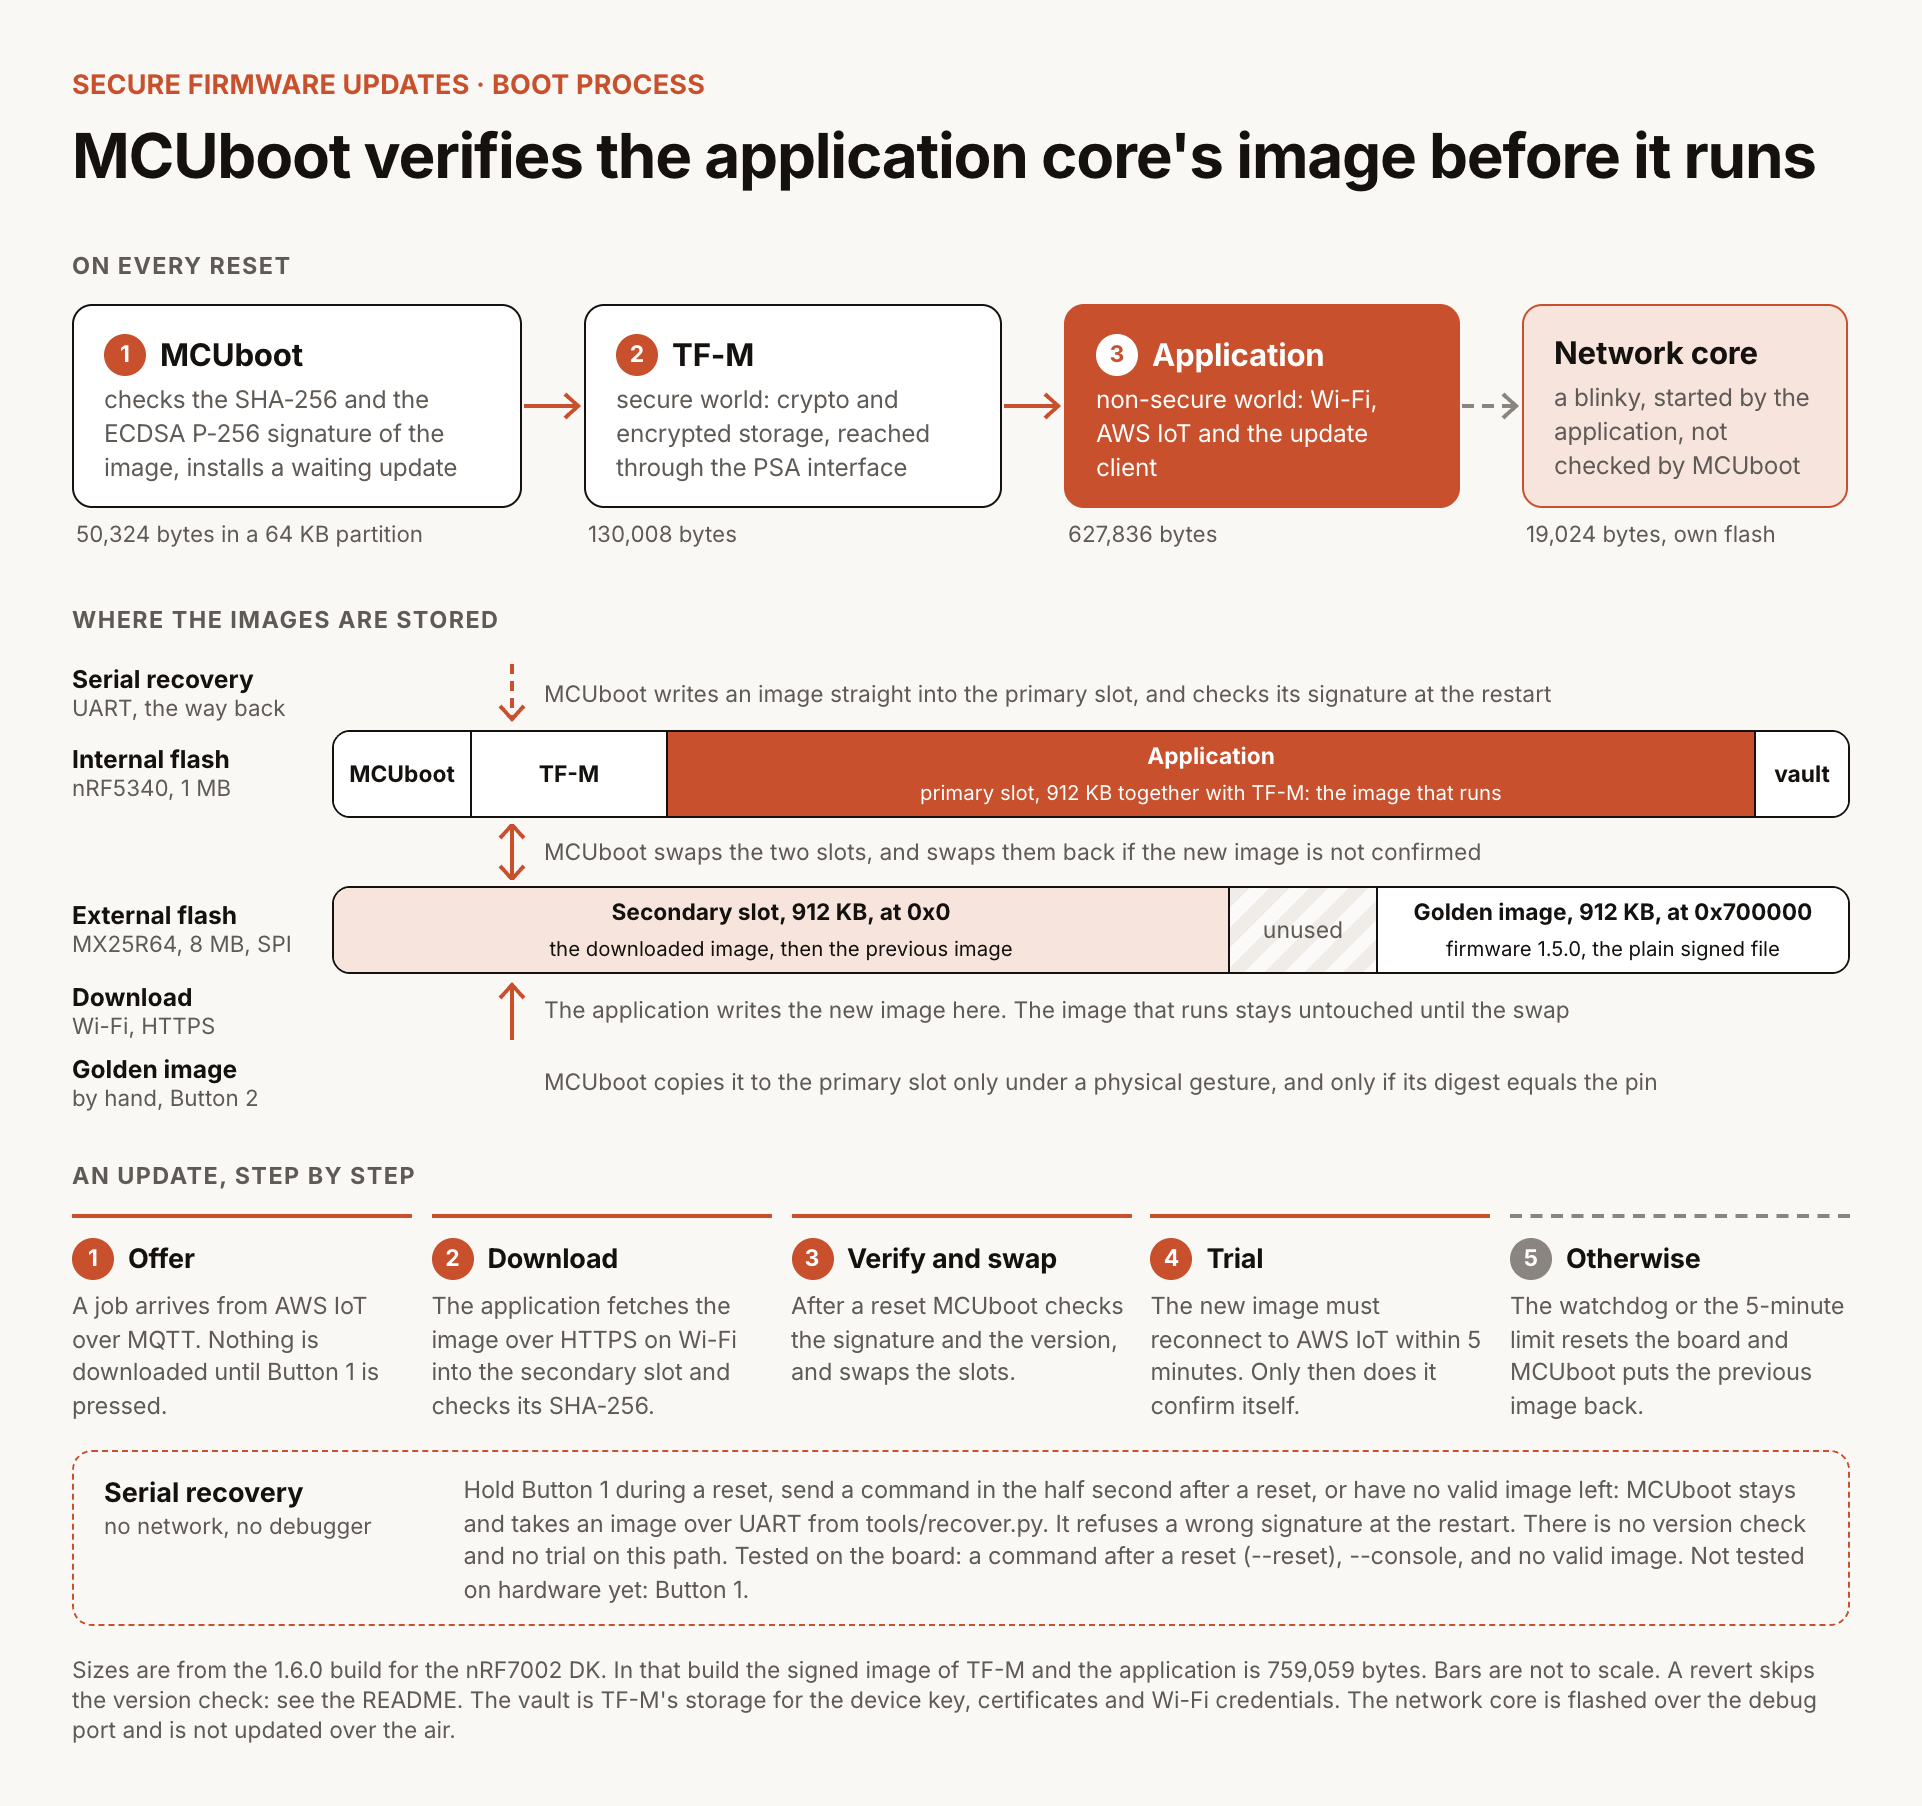
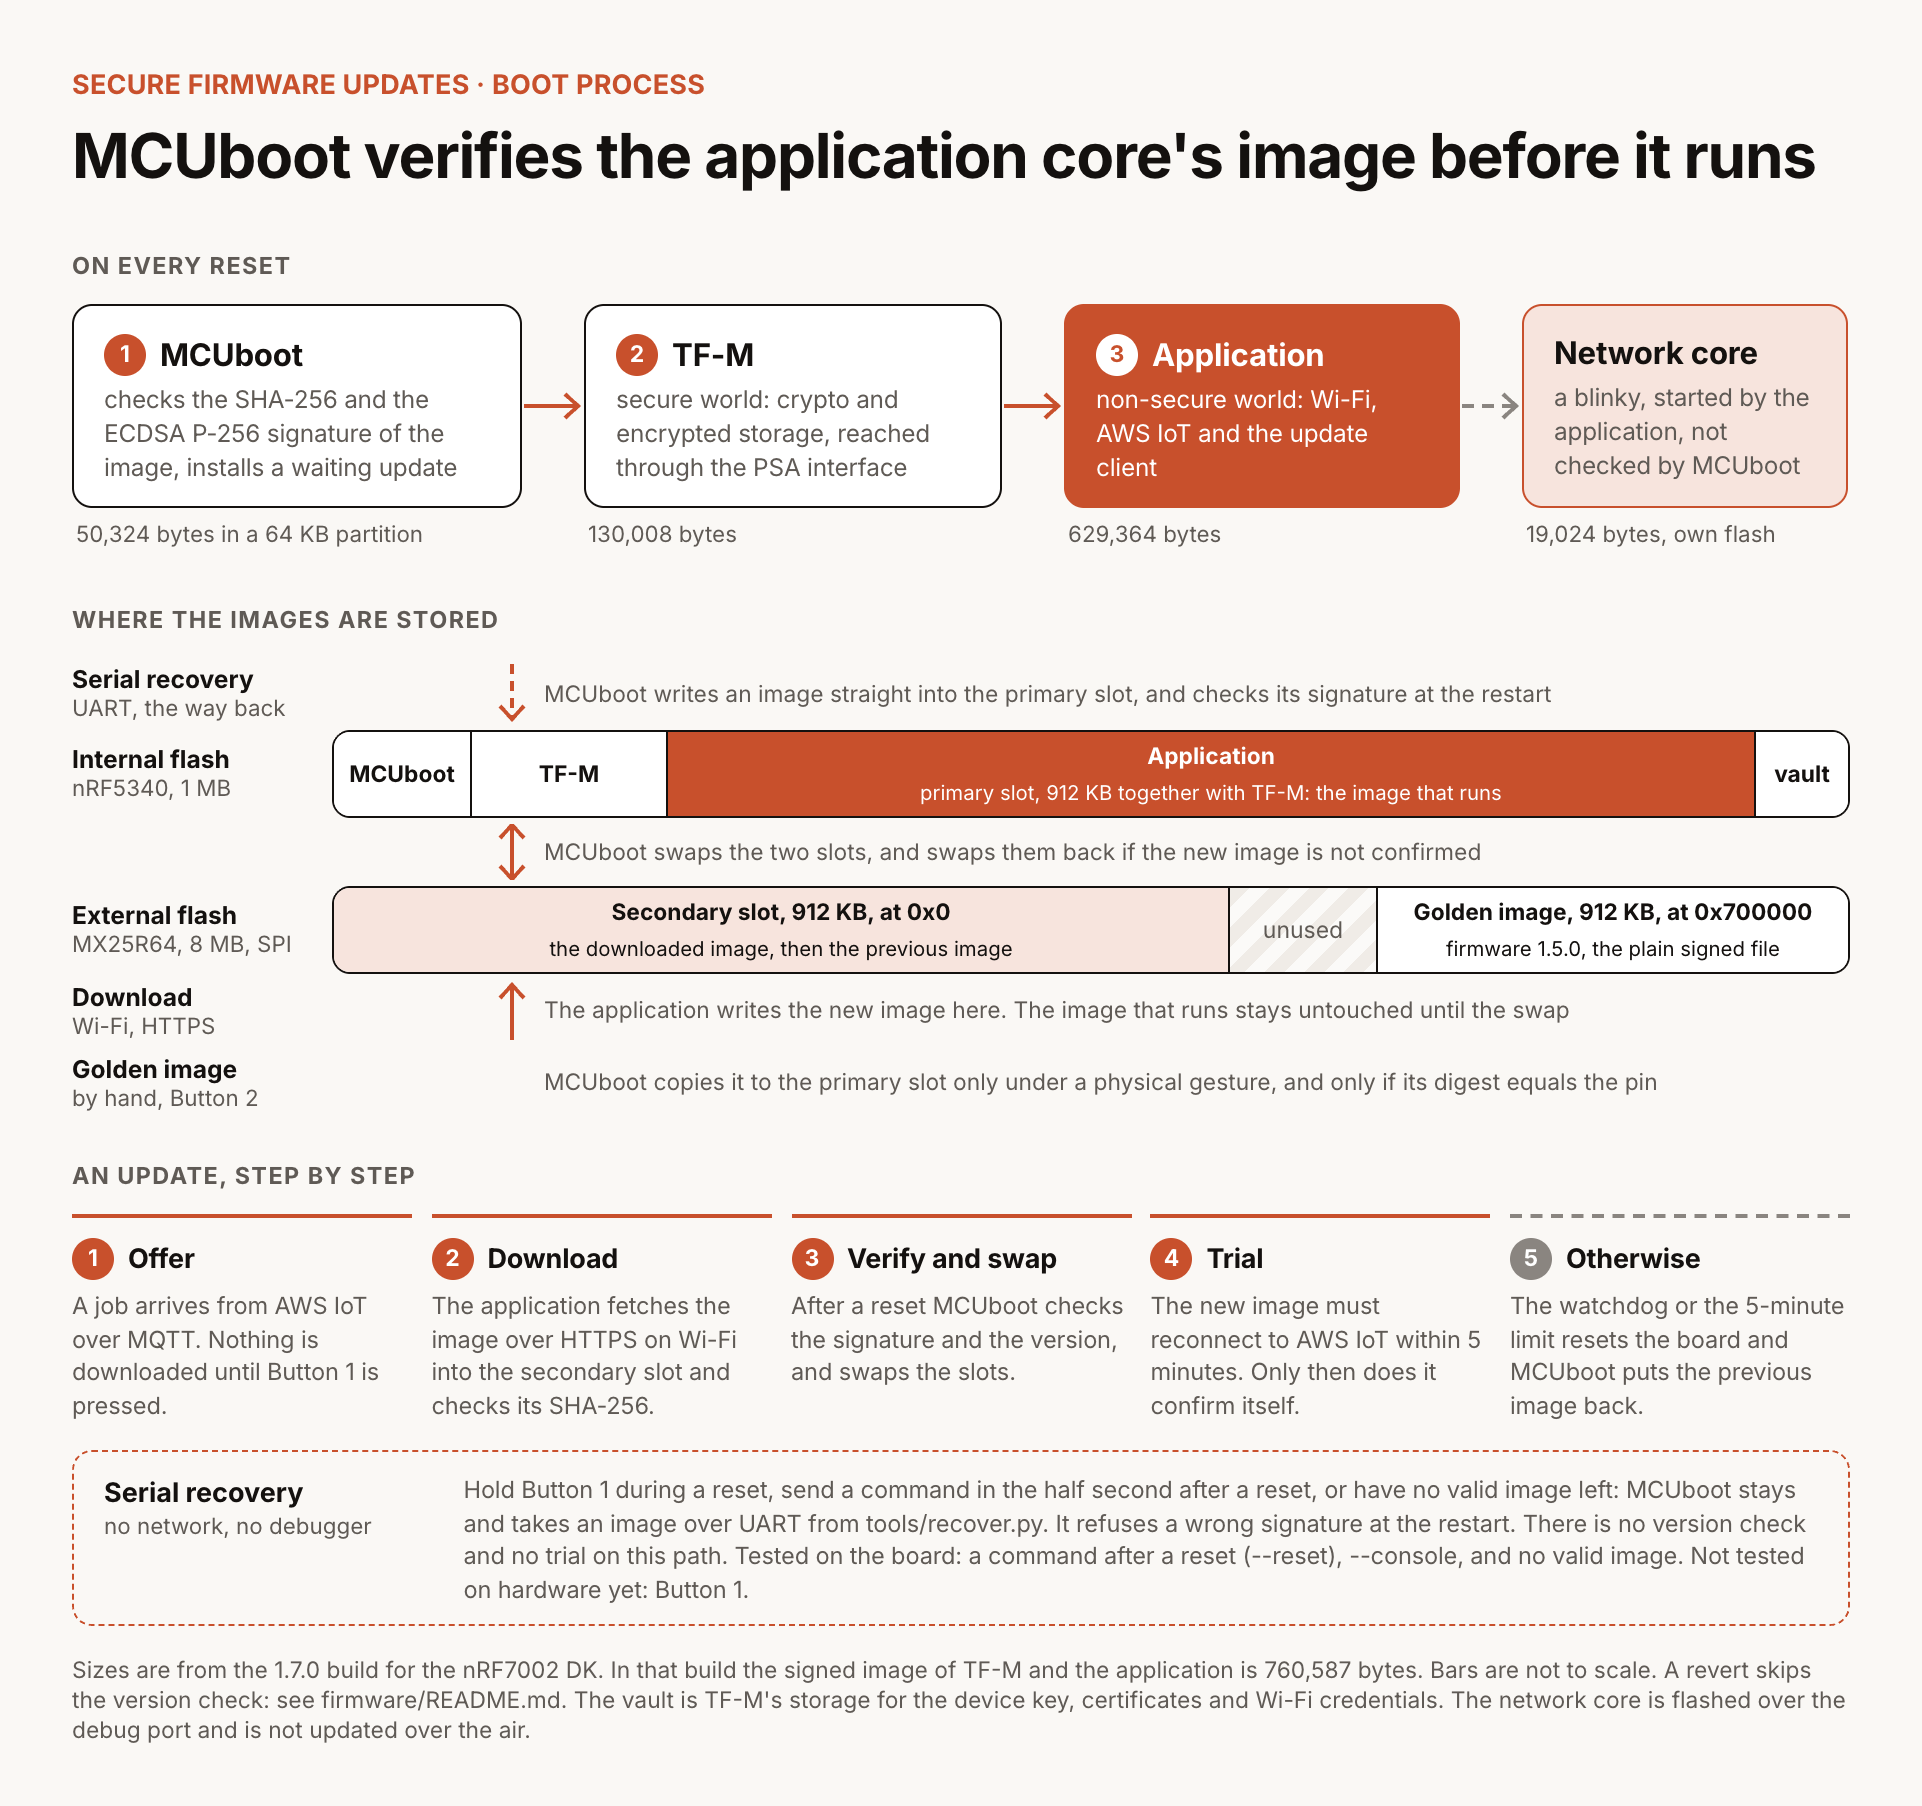
Give the sizes of the 1.7.0 build in the README and the boot diagram

Changed region(s): [[0.0624, 0.8992, 0.9677, 0.9612], [0.5619, 0.2791, 0.6243, 0.3101]]

diff --git a/README.md b/README.md
@@ -103,12 +103,12 @@ On every reset MCUboot checks the SHA-256 and the ECDSA P-256 signature of the i
 
 An update is offered as an AWS IoT job. Nothing is downloaded until Button 1 on the board is pressed (SEC 04). The application downloads the image into the secondary slot, checks it, and resets. MCUboot verifies the signature, swaps the slots and starts the new image on trial. The new image has to reconnect to AWS IoT before it marks itself as good; if it does not, the next reset swaps the previous image back.
 
-<!-- SIZES: every size of the firmware images is in the first two rows of this table, and nowhere else in this file. They are from the 1.6.0 build, from the "Memory region" tables of its build log and the length of its signed file. Replace them, the label on them and the numbers in "pics/Boot Process.png" when a later version is built. -->
+<!-- SIZES: every size of the firmware images is in the first two rows of this table, and nowhere else in this file. They are from the 1.7.0 build, from the "Memory region" tables of its build log and the length of its signed file. Replace them, the label on them and the numbers in "pics/Boot Process.png" when a later version is built. -->
 
 | Question | Answer |
 | --- | --- |
-| How large is your bootloader? | In the 1.6.0 build, MCUboot is 50,324 bytes of flash in a 64 KB partition, and uses 22,408 bytes of RAM. |
-| How large is your existing application code? | In the 1.6.0 build, the application is 627,836 bytes of flash and uses 359,328 of 409,600 bytes of RAM. TF-M is 130,008 of 130,560 bytes of flash, and uses 36,620 of 49,152 bytes of RAM. With a header and the signature, the two are one signed image of 759,059 bytes in a slot of 933,888 bytes. The network core's blinky is a separate 19,024 bytes in that core's own flash. |
+| How large is your bootloader? | In the 1.7.0 build, MCUboot is 50,324 bytes of flash in a 64 KB partition, and uses 22,408 bytes of RAM. |
+| How large is your existing application code? | In the 1.7.0 build, the application is 629,364 bytes of flash and uses 359,392 of 409,600 bytes of RAM. TF-M is 130,008 of 130,560 bytes of flash, and uses 36,620 of 49,152 bytes of RAM. With a header and the signature, the two are one signed image of 760,587 bytes in a slot of 933,888 bytes. The network core's blinky is a separate 19,024 bytes in that core's own flash. |
 | Does the bootloader or application code handle the firmware image download? | The application. MCUboot has no network stack: it verifies and swaps images. |
 | What wireless communication is used to download the images? | Wi-Fi (nRF7002). The job arrives over MQTT with mutual TLS from AWS IoT, and the image is downloaded over HTTPS from a short-lived, signed S3 link. |
 | Why this method? | The DK has Wi-Fi and Bluetooth LE. A signed image is hundreds of kilobytes. Wi-Fi reaches the server directly and has the bandwidth for it: a download takes a little over a minute. Bluetooth would need a phone as a relay and stays free for audio and the controller link. |

diff --git a/binaries/README.md b/binaries/README.md
@@ -14,7 +14,7 @@ everything in this folder except this file.
 Two ways to put an image on a board over the air:
 
 - **From the command line:** `scripts/ota.sh` installs the newest build, and
-  `scripts/ota.sh binaries/cranium-1.6.0-0.signed.bin` installs that one.
+  `scripts/ota.sh binaries/cranium-1.7.0-0.signed.bin` installs that one.
 - **From the website:** on the console's Firmware page, choose the file here. The server
   checks its signature against the project's public key before it stores anything, and
   then offers to deploy it.
@@ -50,7 +50,7 @@ and what size it is. [`docs/ci.md`](../docs/ci.md) has the rest.
 
 ```sh
 scripts/ota.sh                                      # install binaries/latest.signed.bin
-scripts/ota.sh binaries/cranium-1.6.0-0.signed.bin  # install that image
+scripts/ota.sh binaries/cranium-1.7.0-0.signed.bin  # install that image
 scripts/ota.sh --real-button                        # wait for a person to press Button 1
 ```
 
